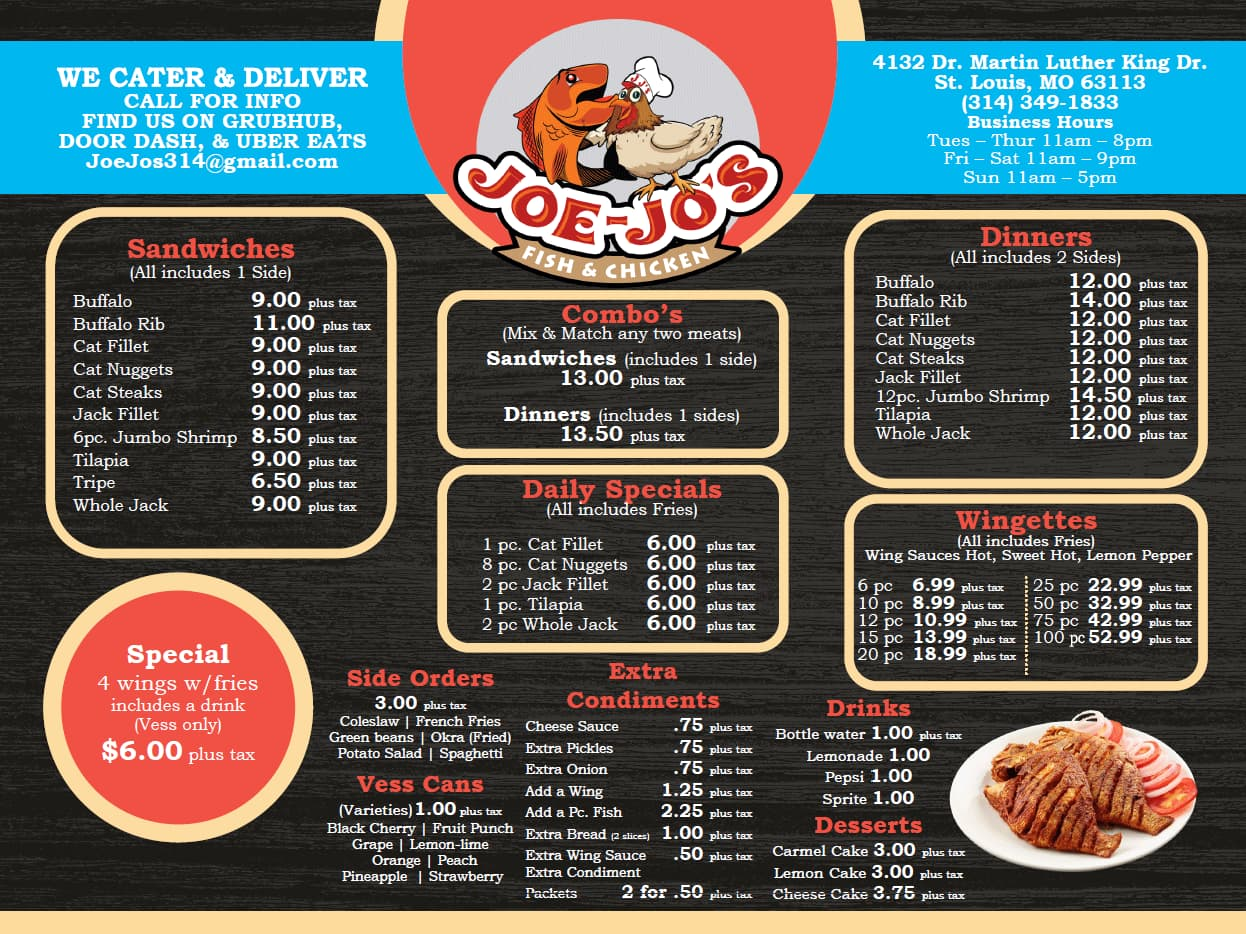
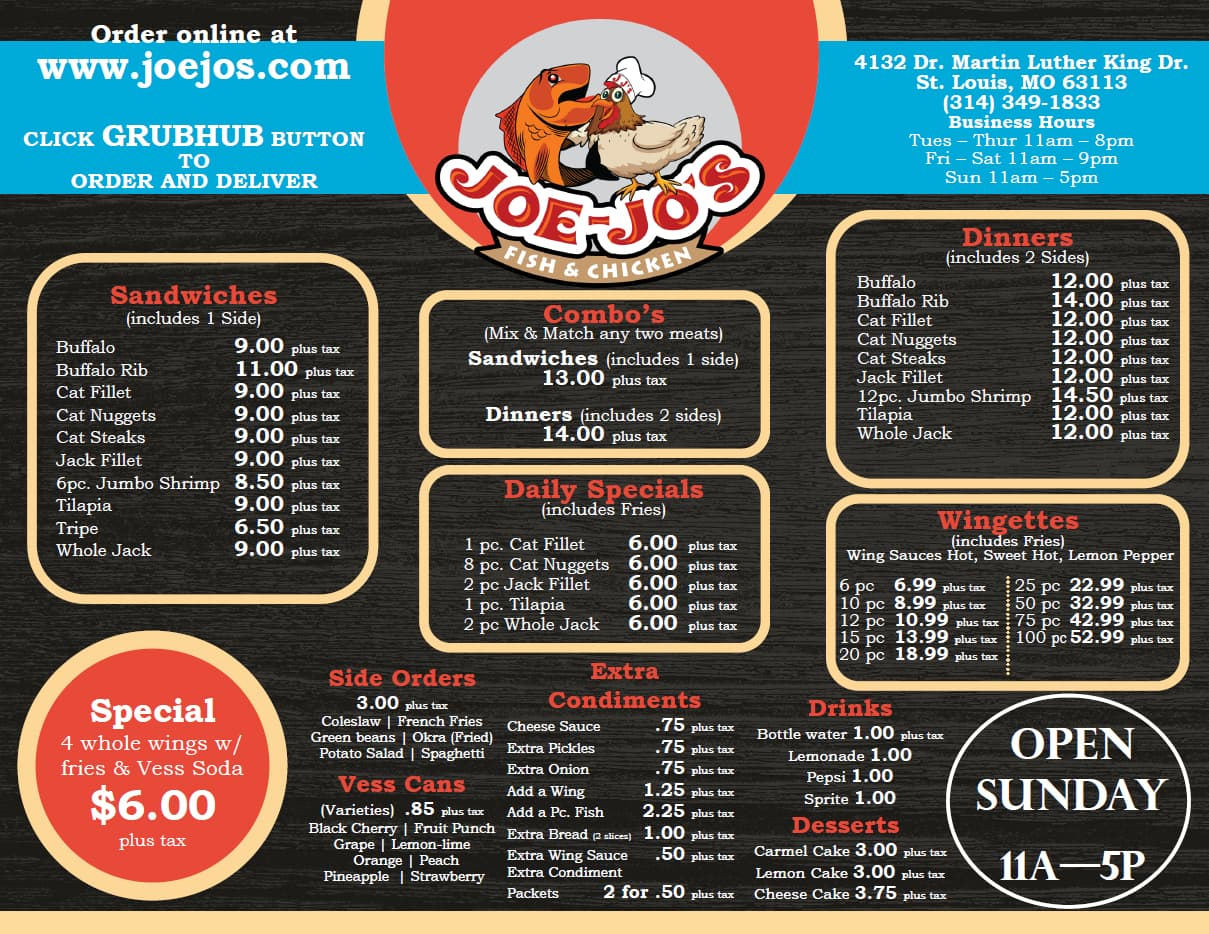
Updated
Updated menu and moved GrubHub button

diff --git a/wwwRoot/index.php b/wwwRoot/index.php
@@ -10,13 +10,11 @@
 
 	<body class="text-center">
 		<div class="container d-flex w-100 h-100 p-3 mx-auto flex-column">
-			<main role="main" class="inner cover">
-				<img src="img/menu.jpg" class="img-fluid" alt="Joe-Jo's Fish &amp; Chicken">
-				<!--
-				<br><br>
-				<img src="img/menu.jpg" class="img-fluid" alt="Joe-Jo's Fish &amp; Chicken Menu">
-				-->
+			<header class="masthead mb-auto">
 				<div class="gh-button-ifrm" data-customer-id="1454683" data-restaurant-name="Joe-Jo's Fish & Chicken" data-button-type="branded" data-button-color="red" data-button-size="large" data-env="prod" data-url="joejos-fish--chicken-4132-dr-martin-luther-king-dr-st.-louis" data-tracking-id="1454683" data-restaurant-address="4132 Dr Martin Luther King Dr, St. Louis MO, 63113" data-version="1.0" data-link-type="gh"></div><script src="https://gh-prod-nitrosites.s3.amazonaws.com/scripts/iframeLib.min.js"></script>
+			</header>
+			<main role="main" class="inner cover" style="background-color:rgba(0,0,0,0.65);padding:0.1rem">
+				<img src="img/menu.jpg" class="img-fluid" alt="Joe-Jo's Fish &amp; Chicken">
 			</main>
 			<footer class="mastfoot mt-auto">
 				<div class="inner" style="background-color:rgba(0,0,0,0.65);padding:0.1rem">
